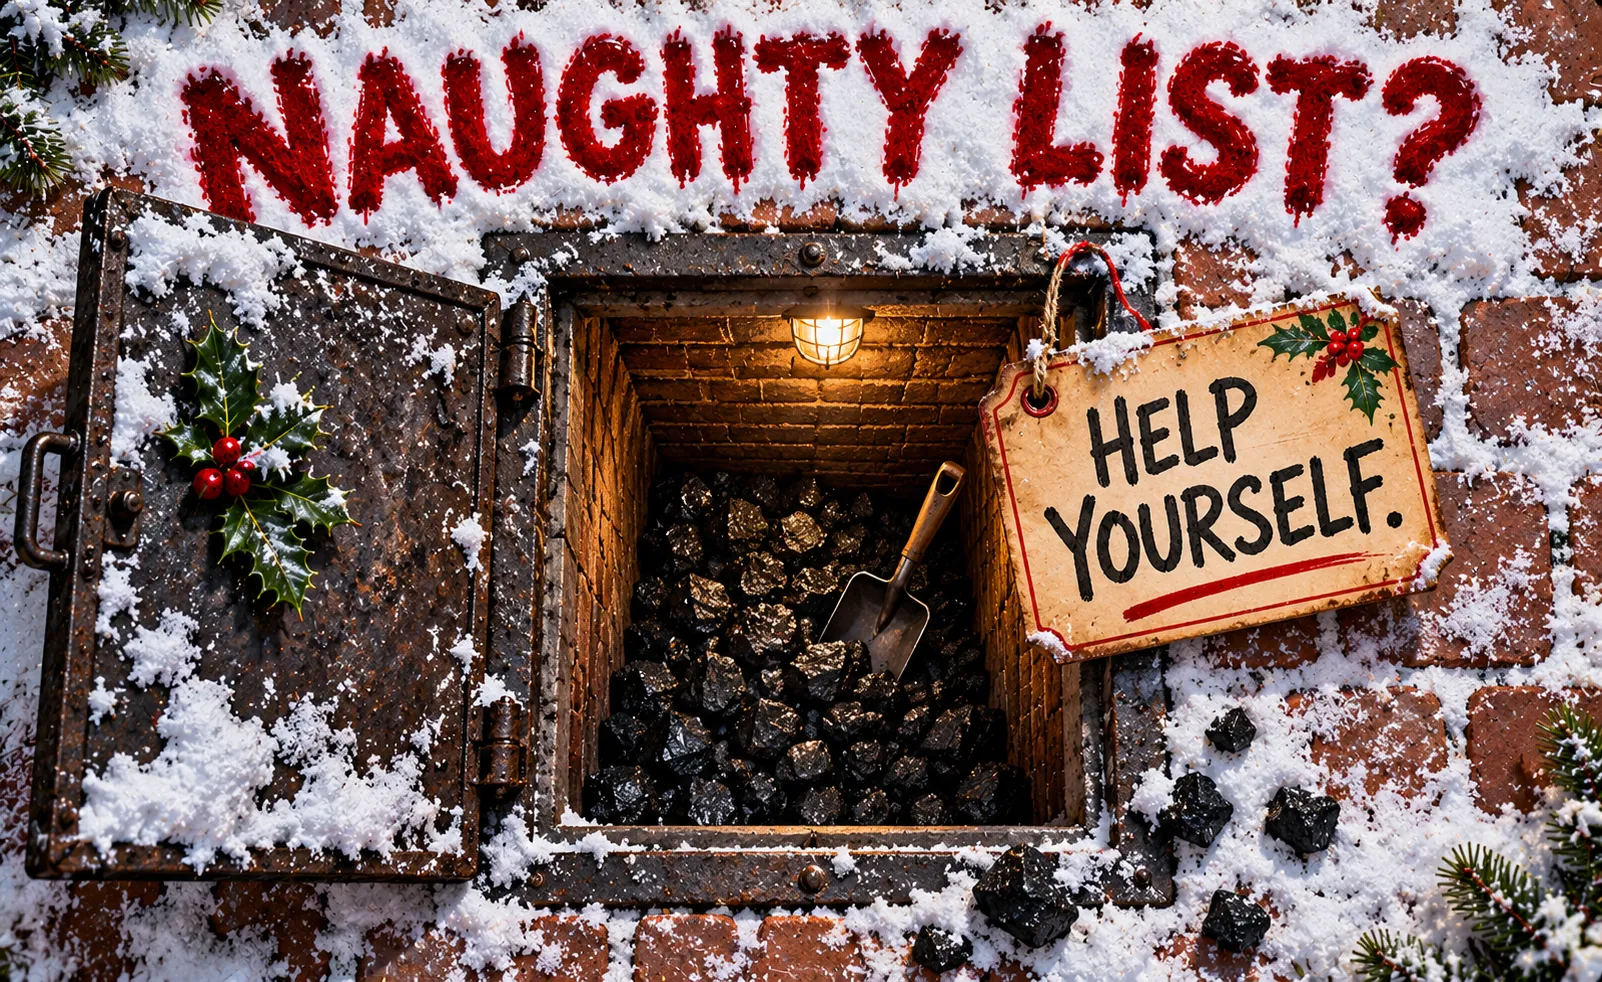
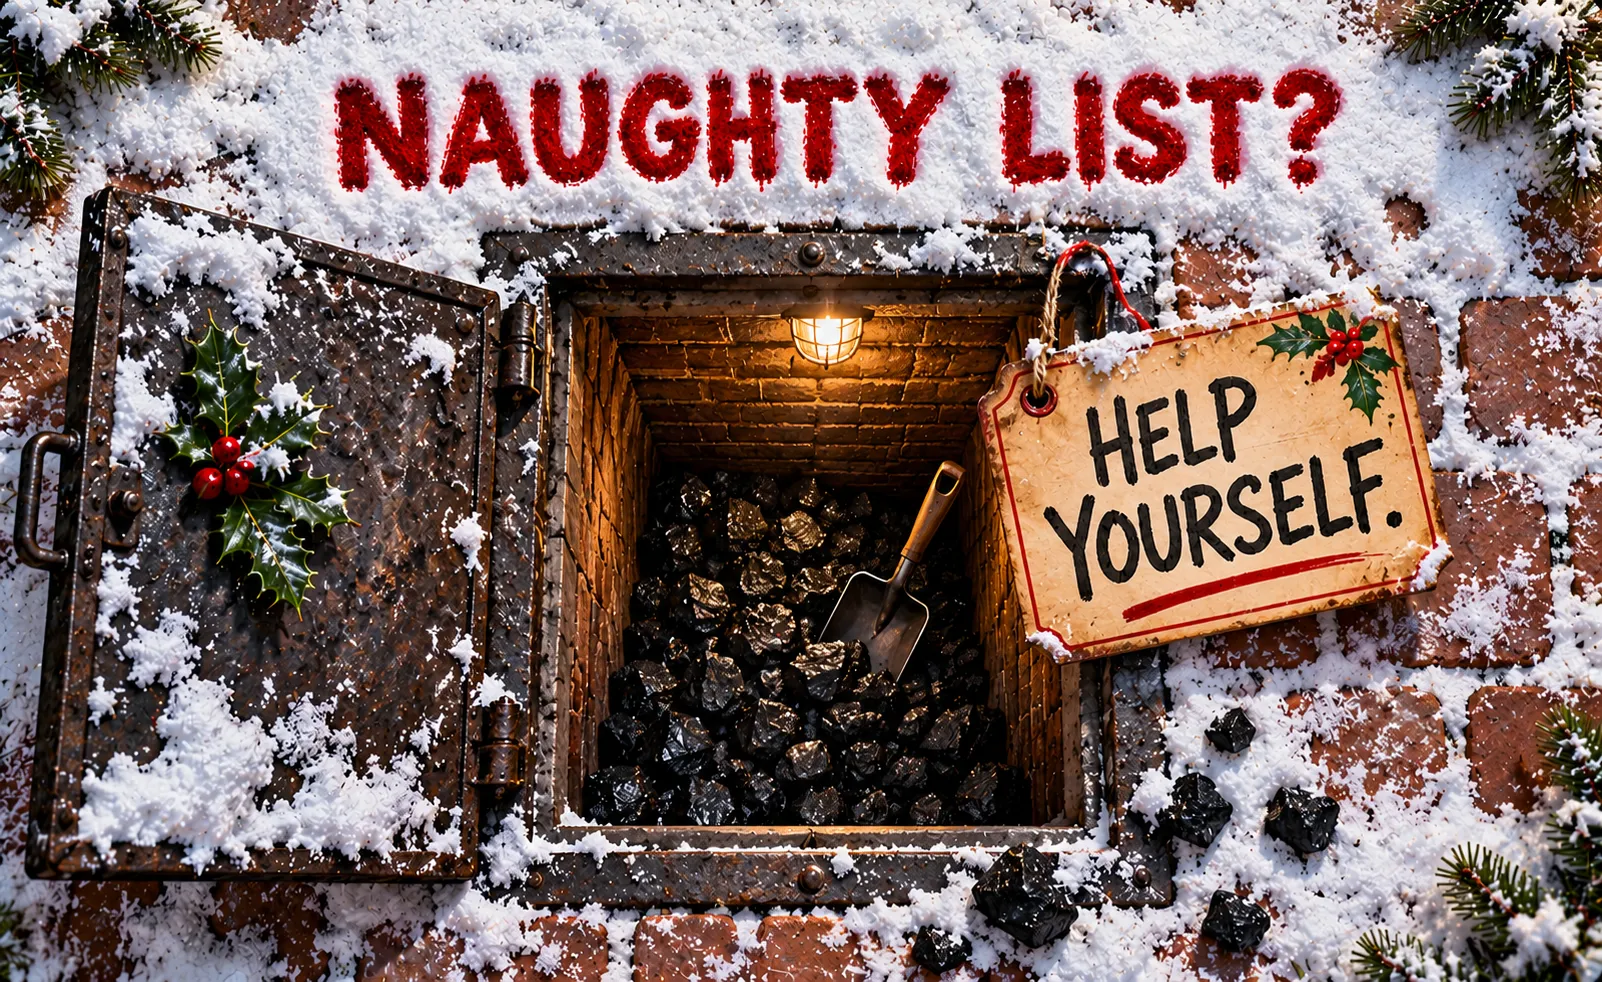
Christmas mats: Naughty List, second version, clean lettering
Claude-Session: https://claude.ai/code/session_01VPDKP5EJZDEyqUkUM3kqQb

diff --git a/art/christmas-mats/README.md b/art/christmas-mats/README.md
@@ -10,4 +10,4 @@ and `show/<key>.jpg` from each by resizing alone.
 | welcome-santa | looking straight down the chimney into the living room, fire lit, cookies and milk out, "Welcome Santa" written in the rising smoke (the Halloween pit mats, turned cosy). Second version: Alyx had the first redrawn so the view is a chimney's (hearth stones below, the plate and milk half under the lip, the rug beyond), not a room with the roof off |
 | dear-santa | a child's crayon letter on lined paper, DEAR SANTA, / DEFINE "GOOD" / LOVE, ME, with the crayon, a candy cane and a bitten cookie (Claude's premise, 25 Oct) |
 | yellow-snow | fresh snow from above, sleigh-runner tracks and hoofprints, one patch of yellow snow with a hoofprint in it, the trail running off the edge, a dropped jingle bell: RUDOLPH WAS HERE. / MIND THE YELLOW SNOW. (Claude's premise, 25 Oct) |
-| naughty-list | an open coal-chute hatch in a snowy brick pavement, coal and a shovel at the bottom, a gift tag HELP YOURSELF; NAUGHTY LIST? across the top (Claude's premise, 25 Oct; the dripping red letters may be redrawn) |
+| naughty-list | an open coal-chute hatch in a snowy brick pavement, coal and a shovel at the bottom, a gift tag HELP YOURSELF; NAUGHTY LIST? across the top (Claude's premise, 25 Oct; second version, the letters re-done without drips) |
